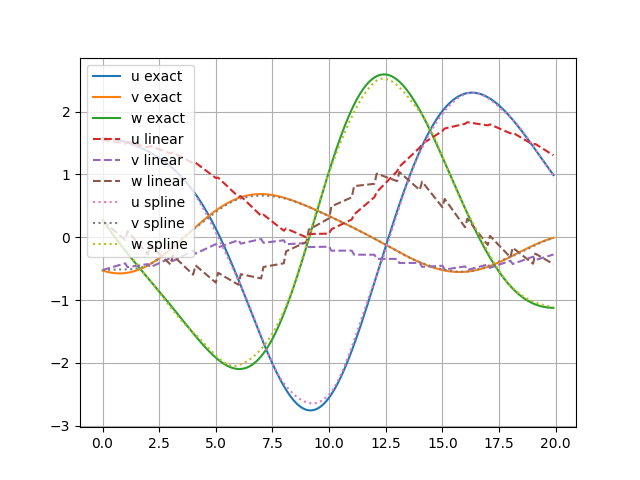
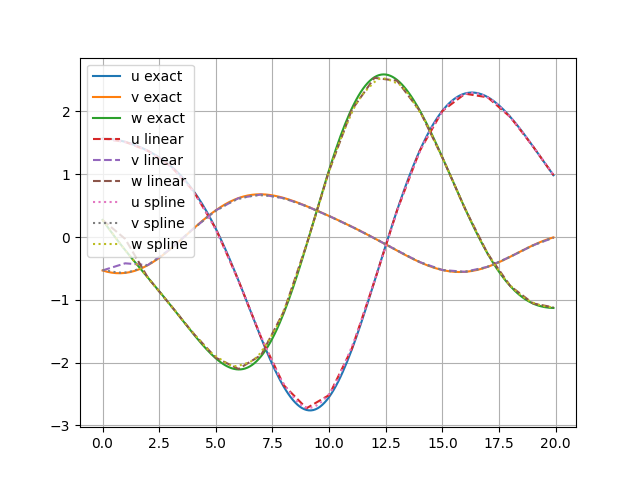
updated probes class to take inn new spline lsgrid

diff --git a/src/lsgrid_spline.cpp b/src/lsgrid_spline.cpp
@@ -115,11 +115,13 @@ void lsGridSpline::update_gradient_dt(double* data, double* graddt){
         int tid = (tstep + 2) % 4;
         int tid1 = (tstep + 3) % 4;
         int tid0 = (tstep + 1) % 4;
+		#pragma omp for
 		for (int i = 0; i < nx*ny*nl; i++) {
             graddt[tid * nx * ny * nl + i] = (data[tid1 * nx * ny * nl + i] - data[tid0 * nx * ny * nl + i]) / (2 * dt);
 		}
 	}
     else {
+		#pragma omp for
         for (int i = 0; i < nx*ny*nl; i++) {
             graddt[1 * nx * ny * nl + i] = (data[2 * nx * ny * nl + i] - data[1 * nx * ny * nl + i]) / dt;
             graddt[2 * nx * ny * nl + i] = (data[3 * nx * ny * nl + i] - data[1 * nx * ny * nl + i]) / (2 * dt);
@@ -133,11 +135,13 @@ void lsGridSpline::update_gradient_eta_dt(double* data, double* graddt){
         int tid = (tstep + 2) % 4;
         int tid1 = (tstep + 3) % 4;
         int tid0 = (tstep + 1) % 4;
+		#pragma omp for
         for (int i = 0; i < nx*ny; i++) {
             graddt[tid * nx * ny + i] = (data[tid1 * nx * ny + i] - data[tid0 * nx * ny + i]) / (2 * dt);
 		}
 	}
     else {
+		#pragma omp for
         for (int i = 0; i < nx*ny; i++) {
             graddt[1 * nx * ny + i] = (data[2 * nx * ny + i] - data[1 * nx * ny + i]) / dt;
             graddt[2 * nx * ny + i] = (data[3 * nx * ny + i] - data[1 * nx * ny + i]) / (2 * dt);
@@ -151,6 +155,7 @@ void lsGridSpline::update_gradient_eta_dxdy(double* eta, double* gradx,double* g
 
     int tid0 = (tstep + 1) % 4;
     int tid1 = (tstep + 2) % 4;
+	#pragma omp for collapse(1)
 	for (int i = 1; i < (nx-1); i++) {
 		for (int j = 0; j < ny; j++) {
             gradx[0 * nx * ny + i * ny + j] = (eta[tid0 * nx * ny + (i + 1) * ny + j] -
@@ -161,6 +166,7 @@ void lsGridSpline::update_gradient_eta_dxdy(double* eta, double* gradx,double* g
 	}
     
 	// boundaries are special cases (x=0 and x=xn)
+	#pragma omp for
     for (int j = 0; j < ny; j++) {
         gradx[0 * nx * ny + j] = (eta[tid0 * nx * ny + ny + j] - eta[tid0 * nx * ny +j]) / dx;
         gradx[0 * nx * ny + (nx-1) * ny + j] = (eta[tid0 * nx * ny +(nx-1) * ny + j] -
@@ -171,6 +177,7 @@ void lsGridSpline::update_gradient_eta_dxdy(double* eta, double* gradx,double* g
 	}
 
     // compute spatial gradient using central difference
+	#pragma omp for collapse(1)
     for (int i = 0; i < nx; i++) {
 		for (int j = 1; j < (ny-1); j++) {
             grady[0 * nx * ny +i * ny + j] = (eta[tid0 * nx * ny + i * ny + (j + 1)] -
@@ -179,6 +186,7 @@ void lsGridSpline::update_gradient_eta_dxdy(double* eta, double* gradx,double* g
                                                  eta[tid1 * nx * ny + i * ny + (j - 1)]) / (2 * dy);
 		}
 	}
+	#pragma omp for
     // y=0 and y=yn
     for (int i = 0; i < nx; i++) {
         grady[0 * nx * ny + i * ny] = (eta[tid0 * nx * ny + i * ny + 1] - eta[tid0 * nx * ny + i * ny]) / dy;
@@ -196,6 +204,7 @@ void lsGridSpline::update_gradient_dxdydz(double* data, double* gradx, double* g
 
     int tid0 = (tstep + 1) % 4;
     int tid1 = (tstep + 2) % 4;
+	#pragma omp for collapse(2)
     for (int i = 1; i < (nx-1); i++) {
 		for (int j = 0; j < ny; j++) {
 			for (int m = 0; m < nl; m++) {
@@ -207,6 +216,7 @@ void lsGridSpline::update_gradient_dxdydz(double* data, double* gradx, double* g
 		}
 	}
     // x=0 and x=xn
+	#pragma omp for collapse(2)
     for (int j = 0; j < ny; j++) {
 		for (int m = 0; m < nl; m++) {
             gradx[0 * nx * ny * nl + j * nl + m] = (
@@ -225,6 +235,7 @@ void lsGridSpline::update_gradient_dxdydz(double* data, double* gradx, double* g
 	}
 
     // compute spatial gradient using central difference
+	#pragma omp for collapse(2)
     for (int i = 0; i < nx; i++) {
 		for (int j = 1; j < (ny-1); j++) {
 			for (int m = 0; m < nl; m++) {
@@ -239,6 +250,7 @@ void lsGridSpline::update_gradient_dxdydz(double* data, double* gradx, double* g
 	}
 
     // y=0 and y=yn
+	#pragma omp for collapse(2)
     for (int i = 0; i < nx; i++) {
 		for (int m = 0; m < nl; m++) {
             grady[0 * nx * ny * nl + i * ny * nl + m] = (
@@ -257,6 +269,7 @@ void lsGridSpline::update_gradient_dxdydz(double* data, double* gradx, double* g
 	}
     
 	// compute grad z spatial gradient using central difference
+	#pragma omp for collapse(2)
      for (int i = 0; i < nx; i++) {
 		for (int j = 0; j < ny; j++) {
 			for (int m = 1; m < (nl-1); m++) {
@@ -270,6 +283,7 @@ void lsGridSpline::update_gradient_dxdydz(double* data, double* gradx, double* g
 		}
 	 }
     // z=0 and z=zn
+	#pragma omp for collapse(2)
     for (int i = 0; i < nx; i++) {
 		for (int j = 0; j < ny; j++) {
             gradz[0 * nx * ny * nl + i * ny * nl + j * nl] = (

diff --git a/examples/python/case5_linear_vs_spline_lsgrid/case5.py b/examples/python/case5_linear_vs_spline_lsgrid/case5.py
@@ -84,22 +84,22 @@ x = 0.0
 y = 0.0
 z = -7
 
-# # Step 1 - Lest compute the exact second order solution
-# shutil.copyfile("waveinput_exact.dat", 'waveinput.dat')
-# init_dll(mydll1)
+# Step 1 - Lest compute the exact second order solution
+shutil.copyfile("waveinput_exact.dat", 'waveinput.dat')
+init_dll(mydll1)
 
-# wave_elev1 = []
-# u1 = []
-# v1 = []
-# w1 = []
+wave_elev1 = []
+u1 = []
+v1 = []
+w1 = []
 
-# for t in time:
-#     #print(wave_SurfElev(mydll,t,-200,0))
-#     wave_elev1.append(wave_SurfElev(mydll1,t,x,y))
-#     u1.append(wave_VeloX(mydll1,t,x,y,z))
-#     v1.append(wave_VeloY(mydll1,t,x,y,z))
-#     w1.append(wave_VeloZ(mydll1,t,x,y,z))
-# clean_up(mydll1)
+for t in time:
+    #print(wave_SurfElev(mydll,t,-200,0))
+    wave_elev1.append(wave_SurfElev(mydll1,t,x,y))
+    u1.append(wave_VeloX(mydll1,t,x,y,z))
+    v1.append(wave_VeloY(mydll1,t,x,y,z))
+    w1.append(wave_VeloZ(mydll1,t,x,y,z))
+clean_up(mydll1)
 
 # Step 2 - now lest do the LSgrid with linear interpolation
 shutil.copyfile("waveinput_linear.dat", 'waveinput.dat')
@@ -118,41 +118,40 @@ for t in time:
     w2.append(wave_VeloZ(mydll2,t,x,y,z))
 clean_up(mydll2)
 
-# # Step 3 - finally lets do the LSgrid with spline interpolation
-# shutil.copyfile("waveinput_spline.dat", 'waveinput.dat')
-# init_dll(mydll3)
+# Step 3 - finally lets do the LSgrid with spline interpolation
+shutil.copyfile("waveinput_spline.dat", 'waveinput.dat')
+init_dll(mydll3)
 
-# wave_elev3 = []
-# u3 = []
-# v3 = []
-# w3 = []
+wave_elev3 = []
+u3 = []
+v3 = []
+w3 = []
 
-# for t in time:
-#     wave_update(mydll3, t)
-#     data = wave_Kinematics(mydll3,t,x,y,z)
-#     #print(wave_SurfElev(mydll,t,-200,0))
-#     # wave_elev3.append(wave_SurfElev(mydll3,t,x,y))
-#     # u3.append(wave_VeloX(mydll3,t,x,y,z))
-#     # v3.append(wave_VeloY(mydll3,t,x,y,z))
-#     # w3.append(wave_VeloZ(mydll3,t,x,y,z))
-#     wave_elev3.append(data[0])
-#     u3.append(data[1])
-#     v3.append(data[2])
-#     w3.append(data[3])
-# clean_up(mydll3)
+for t in time:
+    wave_update(mydll3, t)
+    data = wave_Kinematics(mydll3,t,x,y,z)
+    #print(wave_SurfElev(mydll,t,-200,0))
+    # wave_elev3.append(wave_SurfElev(mydll3,t,x,y))
+    # u3.append(wave_VeloX(mydll3,t,x,y,z))
+    # v3.append(wave_VeloY(mydll3,t,x,y,z))
+    # w3.append(wave_VeloZ(mydll3,t,x,y,z))
+    wave_elev3.append(data[0])
+    u3.append(data[1])
+    v3.append(data[2])
+    w3.append(data[3])
+clean_up(mydll3)
     
 
 
 
 
-#plt.plot(time, wave_elev1, label="exact")
+plt.plot(time, wave_elev1, label="exact")
 plt.plot(time, wave_elev2,"--", label="linear")
-#plt.plot(time, wave_elev3,"--", label="spline")
+plt.plot(time, wave_elev3,"--", label="spline")
 plt.legend()
 plt.grid(True)
 plt.savefig("./result_eta.png")
 plt.show()
-exit()
 plt.clf()
 plt.plot(time,u1, label='u exact')
 plt.plot(time,v1, label='v exact')

diff --git a/src/probes.cpp b/src/probes.cpp
@@ -86,6 +86,40 @@ void Probes::write(double tpt, lsGrid& sgrid, Irregular& irregular, Ramp& ramp) 
 	}
 }
 
+void Probes::write(double tpt, lsGridSpline& sgrids, Irregular& irregular, Ramp& ramp) {
+	if (!sgrids.CheckTime(tpt)) {
+#pragma omp single nowait
+		sgrids.update(irregular, tpt);
+	}
+
+	// loop over probes and write
+	for (int i = 0; i < ts_nprobes; i++) {
+		std::vector<double> v;
+		double xpt = coords[i].x;
+		double ypt = coords[i].y;
+		double zpt = coords[i].z;
+		v = sgrids.get_kinematics_at_point(tpt, xpt, ypt, zpt, irregular.depth);
+	
+		
+		double welev, ux, uy, uz;
+		welev = ramp.ramp(tpt, xpt, ypt) * v[0];
+		ux = ramp.ramp(tpt, xpt, ypt) * v[1];
+		uy = ramp.ramp(tpt, xpt, ypt) * v[2];
+		uz = ramp.ramp(tpt, xpt, ypt) * v[3];
+		//std::cout << welev << std::endl;
+
+		// open file and write line
+		char buffer[256]; sprintf(buffer, "%05d", i);
+		std::string str(buffer);
+		std::string fpath = (ts_path + ts_filename + buffer + ".dat");
+		//std::cout << fpath << std::endl;
+		FILE* fp = fopen(fpath.c_str(), "a");
+		fprintf(fp, "%14.4f  %14.4f  %14.4f  %14.4f  %14.4f\n", tpt, welev, ux, uy, uz);
+		// create file, do nothing.
+		fclose(fp);
+	}
+}
+
 void Probes::write(double tpt, Wavemaker& wavemaker, Ramp& ramp){
 	// loop over probes and write
 	for (int i = 0; i < ts_nprobes; i++) {

diff --git a/src/CFDwavemaker.cpp b/src/CFDwavemaker.cpp
@@ -1762,6 +1762,7 @@ double wave_SurfElev(double xpt, double ypt, double tpt)
 		return ramp.ramp(tpt, xpt, ypt) * sgrid.eta(tpt, xpt, ypt);}
 	case 5:
 	{
+		update_probes(tpt);
 		if (!sgrids.CheckTime(tpt)) {
 #pragma omp single nowait
 			sgrids.update(irregular, tpt);
@@ -1889,6 +1890,13 @@ void update_probes(double tpt) {
 #pragma omp single nowait
 		if (probes.checkTime(tpt)) {
 			probes.write(tpt, sgrid, irregular, ramp);
+		}
+		break;
+	}
+	case 5: {
+#pragma omp single nowait
+		if (probes.checkTime(tpt)) {
+			probes.write(tpt, sgrids, irregular, ramp);
 		}
 		break;
 	}

diff --git a/src/probes.h b/src/probes.h
@@ -5,6 +5,7 @@
 #include "Irregular.h"
 #include "Utils.h"
 #include "lsgrid.h"
+#include "lsgrid_spline.h"
 #include "Wavemaker.h"
 #include "Stokes5.h"
 
@@ -41,6 +42,7 @@ public:
 	bool checkTime(double tpt);
 	void write(double tpt, Irregular& irregular, Ramp& ramp);
 	void write(double tpt, lsGrid& sgrid, Irregular& irregular, Ramp& ramp);
+	void write(double tpt, lsGridSpline& sgrids, Irregular& irregular, Ramp& ramp);
 	void write(double tpt, Wavemaker& wavemaker, Ramp& ramp);
 	void write(double tpt, Stokes5& stokes5, Ramp& ramp);
 #if defined(SWD_enable)

diff --git a/README.md b/README.md
@@ -31,6 +31,9 @@ Special:
 
 ## Version log (highlights only)
 
+Version 3.0.1 release:
+- (major update): added spline interpolation in 4 dimensions to LSgrid. This improves accuracy, smoothness of the resulting timeseries and improves calculation time, since a lot less second order kinematics is needed to create an accurate description of the field 
+
 Version 2.1.6 release:
 - VTK extension.
 - Some minor bugfixes in second order theory related to intermediate water depth usage.
